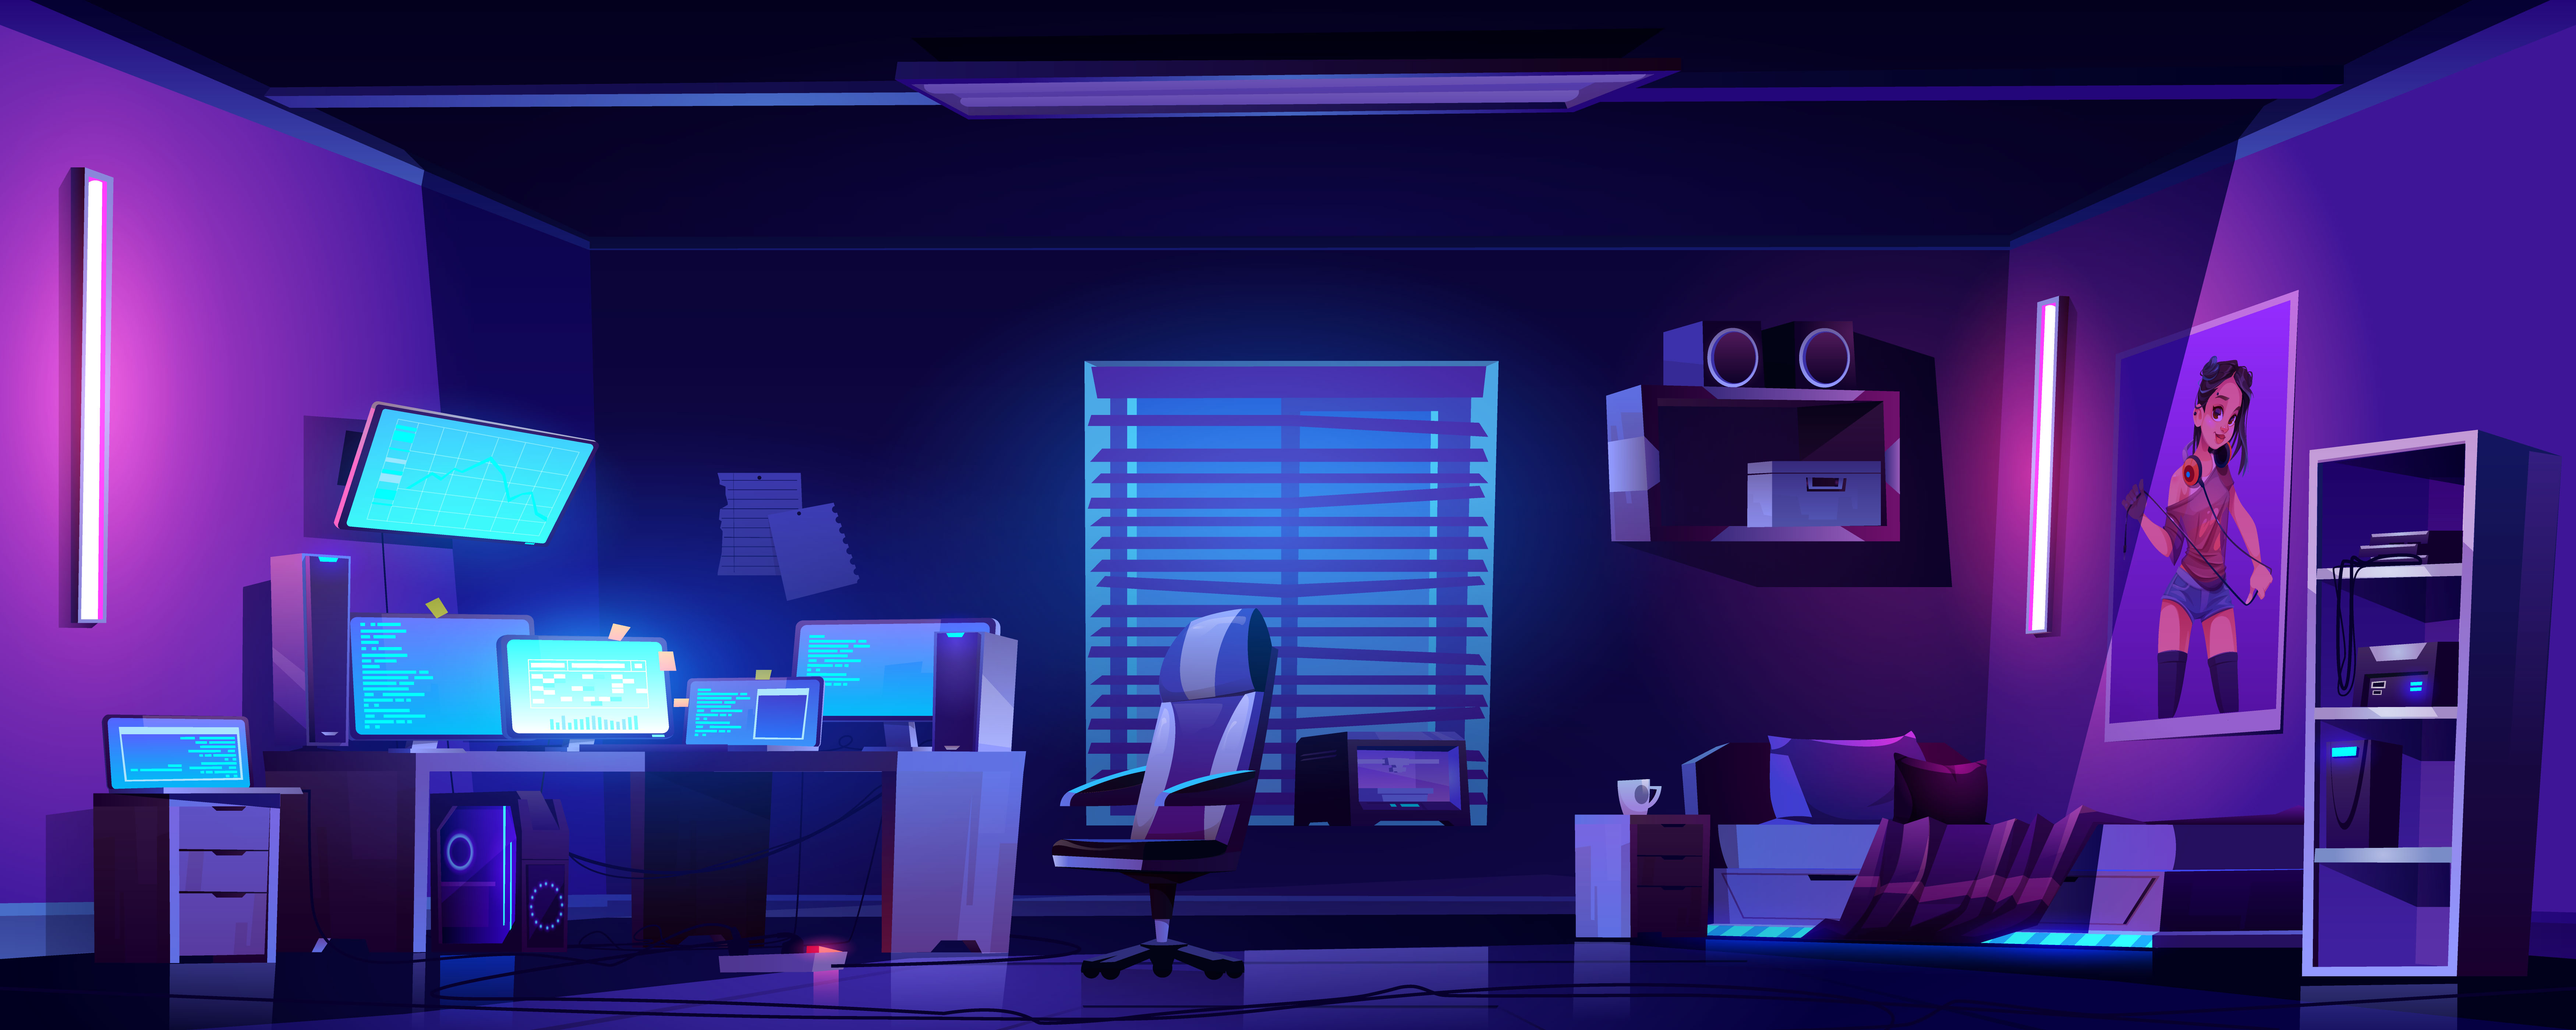
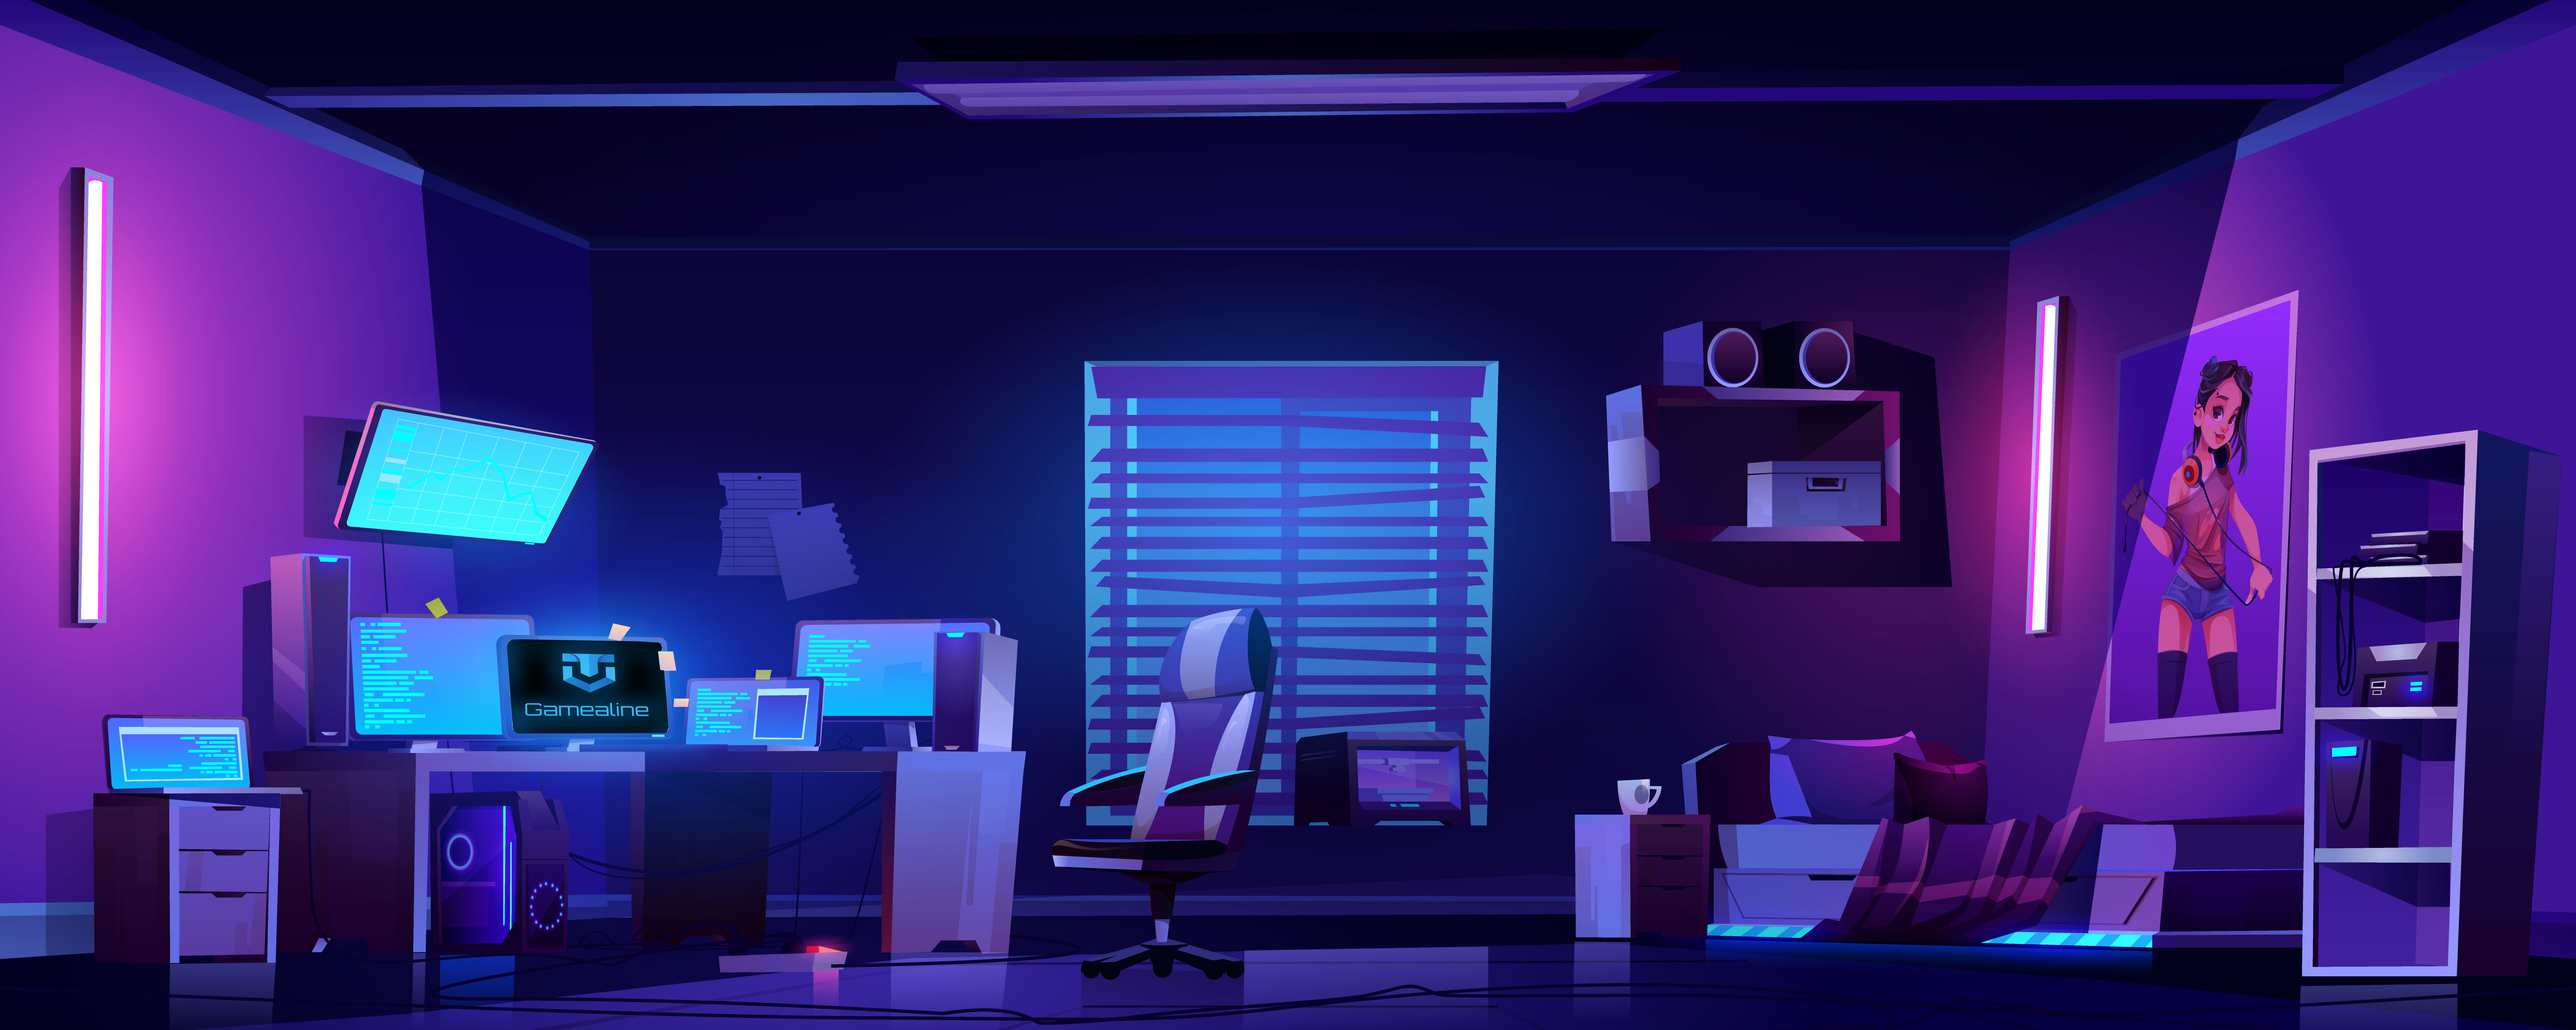
footer

Changed region(s): [[0.1869, 0.6214, 0.2803, 0.7146]]

diff --git a/style/main.css b/style/main.css
@@ -10,7 +10,7 @@ body{
     justify-content: center;
     align-items: center;
     min-height: 100vh;
-    background-color: #17293C ;
+    background-color: #0B111F ;
     overflow-x: hidden;
 }
 .top{
@@ -40,7 +40,8 @@ body{
     border-bottom-left-radius: 20px;
     border-bottom-right-radius: 20px;
     border-left:1px solid rgba(255,255,255,0.5);
-    background: rgba(255, 255, 255, 0.178);
+    /* background: rgba(255, 255, 255, 0.178); */
+    background : rgb(120 120 120 / 55%);
     backdrop-filter: blur( 5.5px );
     -webkit-backdrop-filter: blur( 5.5px );
     clip-path: polygon(0 0, 100% 0, 80% 100%, 20% 100%);
@@ -54,7 +55,8 @@ body{
     border-bottom-left-radius: 20px;
     border-bottom-right-radius: 20px;
     border-left:1px solid rgba(255,255,255,0.5);
-    background: rgba( 255, 255, 255, 0.178 );
+    /* background: rgba( 255, 255, 255, 0.178 ); */
+    background : rgb(120 120 120 / 55%);
     backdrop-filter: blur( 5.5px );
     -webkit-backdrop-filter: blur( 5.5px );
     clip-path: polygon(0 0, 100% 0, 80% 100%, 20% 100%);
@@ -63,9 +65,9 @@ body{
 .main{
     height: 800px;
     width: 100%;
-    background-image: url("../photos/2738.jpg");
+    background-image: url("../photos/ps4-games-page-banner-hero-desktop-01-en-11nov20.jpeg");
     background: linear-gradient(to bottom, transparent,transparent,rgba(0, 0, 0, 0.87) ),
-      url("../photos/2738.jpg");
+      url("../photos/ps4-games-page-banner-hero-desktop-01-en-11nov20.jpeg");
     background-position: center;
     background-size: cover;
     background-attachment: fixed;
@@ -80,7 +82,7 @@ body{
     background: rgba( 255, 255, 255, 0.10 );
     backdrop-filter: blur( 5.5px );
     -webkit-backdrop-filter: blur( 5.5px );
-    position: absolute;
+    position: fixed;
     top: 180px;
     right: 0px;
     transition: 0.5s;
@@ -93,6 +95,147 @@ body{
 .check{
     height: 800px;
     width: 100%;
+}
+.footer{
+    height: 450px;
+    width: 100%;
+    background-color: black;
+    display: flex;
+    flex-direction: row;
+    justify-content: space-around;
+    align-items: center;
+    border-top: white 2px solid;
+}
+.footer .sec{
+    height: 320px;
+    width: 290px;
+    display: flex;
+    flex-direction: column;
+    /* justify-content: space-around; */
+}
+#sec-1 a {
+    display: flex;
+    flex-direction: row;
+    align-items: center;
+    text-decoration-line: none !important;
+}
+#sec-1 a img{
+    height: 80px;
+    margin-right: 10px;
+}
+#sec-1 a h2{
+    font-size: 28px;
+    font-weight: 600;
+    color: white;
+    text-transform: uppercase;
+}
+#sec-1 p{
+    color: rgb(188 188 188 / 75%);
+    font-size: 16px;
+    line-height: 2.1;
+    font-weight: 400;
+    font-family: 'Segoe UI', Tahoma, Geneva, Verdana, sans-serif;
+}
+#sec-2 p{
+    color: rgb(188 188 188 / 75%);
+    font-size: 18px;
+    line-height: 2.1;
+    font-weight: 400;
+    margin-bottom: 3px;
+    font-family: 'Segoe UI', Tahoma, Geneva, Verdana, sans-serif;
+}
+#sec-2 h4{
+    margin-bottom: 27px;
+    margin-top: 7px;
+    font-size: 28px;
+    font-weight: 600;
+    color: white;
+    text-transform: uppercase;
+    line-height: 2.1;
+    font-family: 'Segoe UI', Tahoma, Geneva, Verdana, sans-serif;
+}
+#sec-3{
+    width: 250px;
+}
+#sec-3 ul li{
+    list-style: none;
+}
+#sec-3 ul li a{
+    text-decoration: none;
+    color: rgb(188 188 188 / 75%);
+    font-size: 16px;
+    line-height: 2.1;
+    font-weight: 400;
+    margin-bottom: 3px;
+    font-family: 'Segoe UI', Tahoma, Geneva, Verdana, sans-serif;
+}
+#sec-3 h4{
+    margin-bottom: 27px;
+    margin-top: 7px;
+    font-size: 28px;
+    font-weight: 600;
+    color: white;
+    text-transform: uppercase;
+    line-height: 2.1;
+    font-family: 'Segoe UI', Tahoma, Geneva, Verdana, sans-serif;
+}
+#sec-4 p{
+    color: rgb(188 188 188 / 75%);
+    font-size: 16px;
+    line-height: 2.1;
+    font-weight: 400;
+    margin-bottom: 3px;
+    font-family: 'Segoe UI', Tahoma, Geneva, Verdana, sans-serif;
+}
+#sec-4 h4{
+    margin-bottom: 27px;
+    margin-top: 7px;
+    font-size: 28px;
+    font-weight: 600;
+    color: white;
+    text-transform: uppercase;
+    line-height: 2.1;
+    font-family: 'Segoe UI', Tahoma, Geneva, Verdana, sans-serif;
+}
+.copyright_text{
+    height: 80px;
+    display: flex;
+    flex-direction: row;
+    justify-content: center;
+    align-items: center;
+}
+.copy_text{
+    color: rgb(188 188 188 / 75%);
+    font-size: 16px;
+    line-height: 2.1;
+    font-weight: 400;
+    margin-bottom: 3px;
+    font-family: 'Segoe UI', Tahoma, Geneva, Verdana, sans-serif;
+}
+.copy_text a{
+    text-decoration: none;
+    color: red;
+    font-weight: 500;
+}
+#mc_embed_signup form input{width: 80%;
+    height: 34px;
+    color: white;
+    font-size: 17px;
+    margin-top: 10px;
+    padding-left: 20px;
+    border-radius: 8px;
+    border: 2px white solid;
+    background: transparent;
+    font-family: system-ui;
+}
+#newsletter-submit{
+    height: 34px;
+    width: 34px;
+    margin-left: 6px;
+    color: white;
+    background: linear-gradient(
+118deg
+, #0415dd, #04e7fe);
 }
 /* .container{
     position: relative;

diff --git a/main.html b/main.html
@@ -27,6 +27,54 @@
         </div>
     </div>
 </div> -->
+<footer class="footer" id="main_footer">
+    <div id="sec-1" class="sec">
+            <a href="index.html"><img src="photos/logo.png" alt=""><h2>Gamealine</h2></a>
+            <p>Lorem ipsum dolor sit amet, consectetur adipiscing elit. Mauris velit arcu, scelerisque dignissim massa quis, mattis facilisis erat. Aliquam erat volutpat. Sed efficitur diam ut interdum ultricies onsectetur adipisicing elit. Tempora, suscipit. </p>
+    </div>
+    <div id="sec-2" class="sec">
+        <div class="single_footer_part">
+            <h4>Contact Info</h4>
+            <p>Address : Your address goes
+                here, your demo address.
+                Bangladesh.</p>
+            <p>Phone : +8880 44338899</p>
+            <p>Email : info@colorlib.com</p>
+        </div>
+    </div>
+    <div id="sec-3" class="sec">
+        <div class="single_footer_part">
+            <h4>Important Link</h4>
+            <ul class="list-unstyled">
+                <li><a href=""> WHMCS-bridge</a></li>
+                <li><a href="">Search Domain</a></li>
+                <li><a href="">My Account</a></li>
+                <li><a href="">Shopping Cart</a></li>
+                <li><a href="">Our Shop</a></li>
+            </ul>
+        </div>
+    </div>
+    <div id="sec-4" class="sec">
+        <div class="single_footer_part">
+            <h4>Newsletter</h4>
+            <p>Heaven fruitful doesn't over lesser in days. Appear creeping seasons deve behold
+                bearing
+                days
+                open
+            </p>
+            <div id="mc_embed_signup">
+                <form target="_blank">
+                    <input type="email" name="EMAIL" id="newsletter-form-email" placeholder="Email Address" class="placeholder hide-on-focus" onfocus="this.placeholder = ''" onblur="this.placeholder = ' Email Address '">
+                    <button type="submit" name="submit" id="newsletter-submit" class="email_icon newsletter-submit button-contactForm">&aring;</button>
+                </form>
+            </div>
+        </div>
+    </div>
+</footer>
+<div class="copyright_text">
+<p class="copy_text">
+Copyright © 2021 All rights reserved | This template is made with <a href="#" target="_blank">Aman Kanojiya</a></p>
+</div>
 <script src="js/vanilla-tilt.js"></script>
 <script>
     VanillaTilt.init(document.querySelectorAll(".tilt"), {
